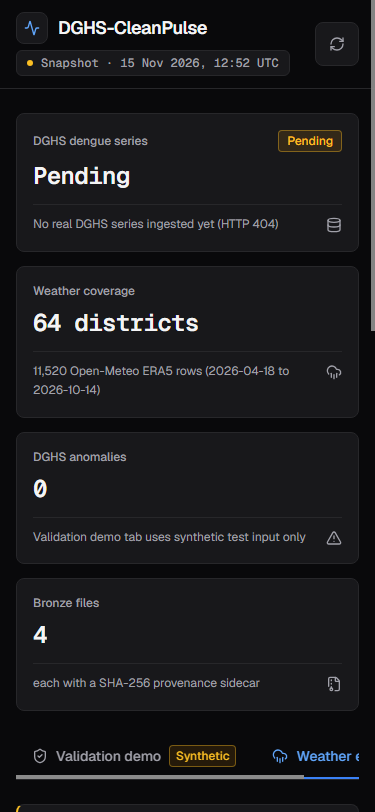
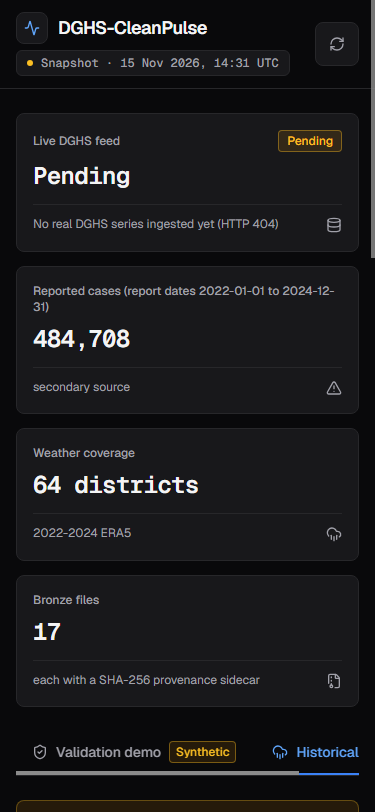
docs: update README dashboard screenshots and captions for Phase 2

diff --git a/README.md b/README.md
@@ -15,15 +15,20 @@
 
 ![Validation demo (synthetic input)](docs/dashboard_tab1.png)
 
-### Weather explorer
-*Displays the 64-district Open-Meteo Historical Weather API series (`2026-04-18` to `2026-10-14`) with a visible notice that the dengue time series and lag correlation are pending a real DGHS source.*
+### Historical analysis (secondary source, 2022-2024)
+*Displays the 2022–2024 secondary-source weekly dengue case series alongside 64-district Open-Meteo ERA5 climate aggregates across 156 complete ISO weeks.*
 
-![Weather explorer](docs/dashboard_tab2.png)
+![Historical analysis (secondary source, 2022-2024)](docs/dashboard_tab2.png)
 
-### Mobile view (Weather explorer at 375px)
-*Responsive 375px mobile layout of the Weather explorer tab.*
+### Pre-registered lag view: descriptive Spearman rho, raw vs differenced
+*Weekly Spearman rank correlation (ρ) across lags 0–8 weeks comparing raw weekly levels and differenced (Δlog) sensitivity series.*
 
-![Mobile view: Weather explorer](docs/dashboard_mobile.png)
+![Pre-registered lag view: descriptive Spearman rho, raw vs differenced](docs/dashboard_lag.png)
+
+### Mobile view (Historical analysis at 375px)
+*Responsive 375px mobile layout of the Historical analysis tab.*
+
+![Mobile view: Historical analysis](docs/dashboard_mobile.png)
 
 ---
 
